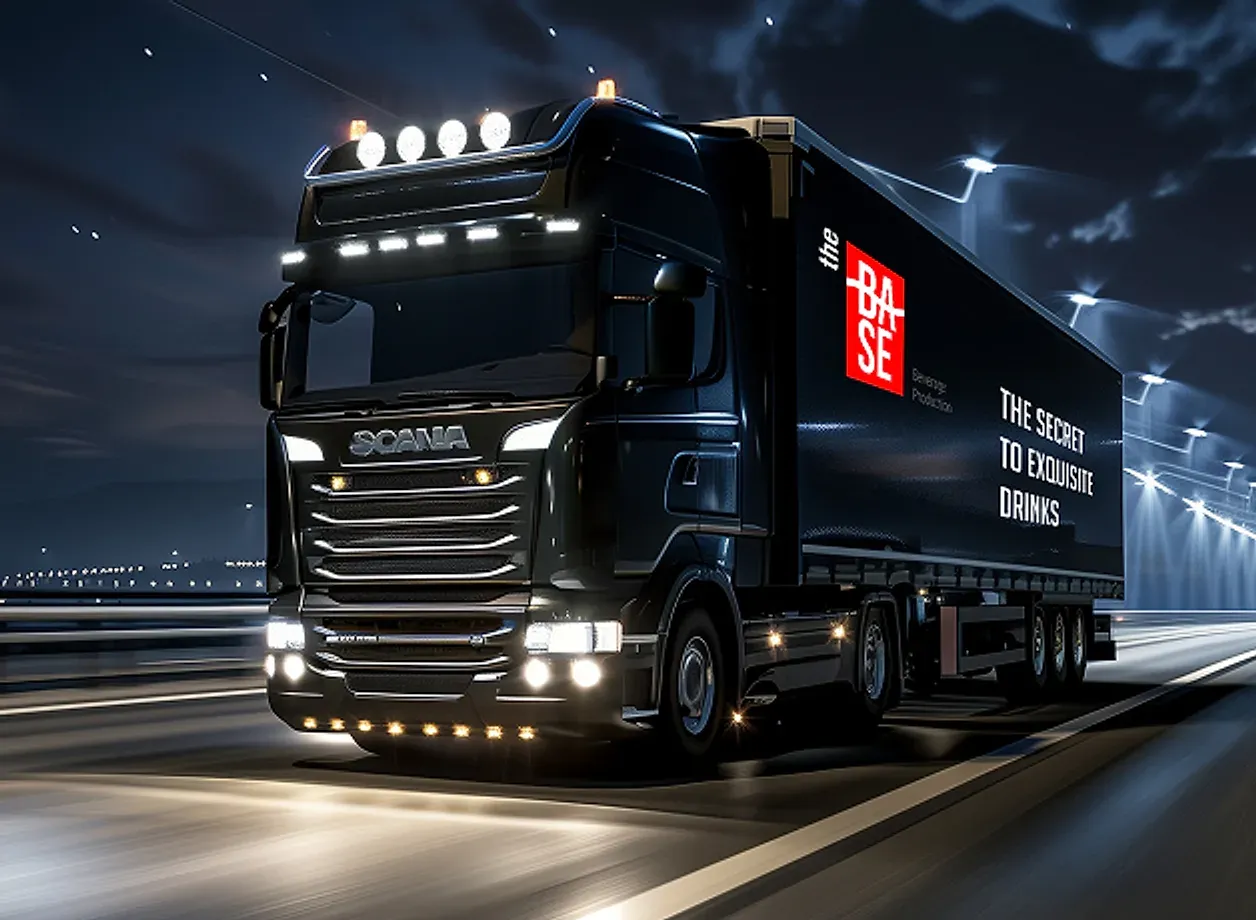
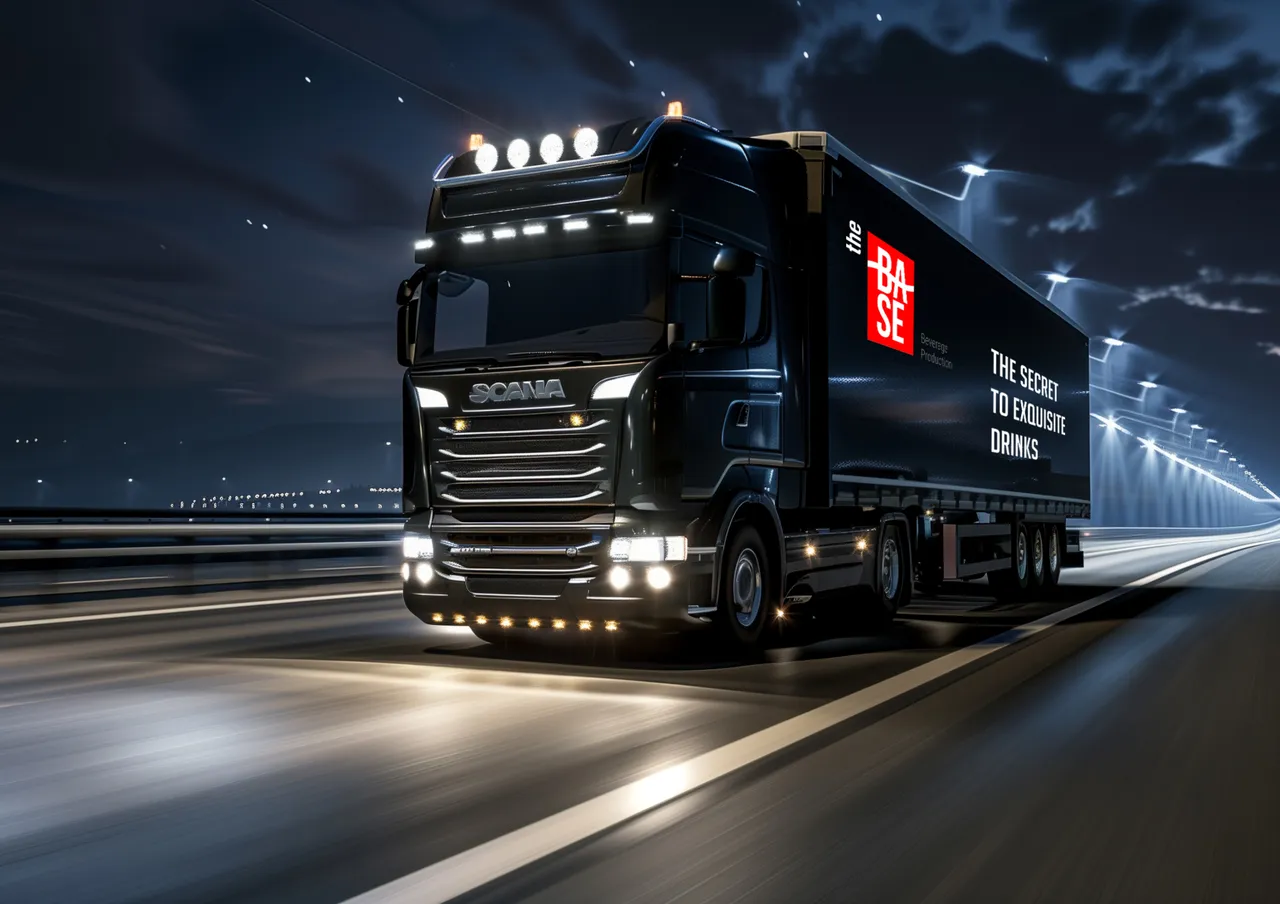
fix(distributors): the hero photo at full resolution
The "SVG" is a wrapper: inside it is the original JPEG at 4096x2894,
which is what the hero was missing. The 628x460 version it replaces was
being stretched 2.3x on a 1440 screen, and the lettering on the trailer
showed it.

Two widths off the original rather than one: 1280 at q80 for phones
(67 KB) and 2400 at q76 for desktops (128 KB), chosen by `srcset`. The
photograph is mostly night, so it compresses far below what a hero this
size usually costs. Verified which file each device actually pulls —
phone at 3x takes the 1280, desktop takes the 2400 at both 1x and 2x.

`next/image` is gone from the hero with it. `images.unoptimized` is on,
so it was serving one file at every size anyway, and its inline `inset`
and `height` were the reason the phone band could not be sized.

Checks: typecheck, lint, build, check:assets, smoke:http, smoke:browser.

diff --git a/src/components/distributors/DistributorsPage.tsx b/src/components/distributors/DistributorsPage.tsx
@@ -175,18 +175,27 @@ export function DistributorsPage() {
         what that version does with them.
       */}
       <section className={styles.hero} aria-labelledby="dist-title">
-        {/* The frame is what gets positioned, not the image: `fill` writes its
-            own `inset` and `height` inline, and inline beats a stylesheet — so
-            sizing the image itself was silently ignored and the phone got a
-            close-up of the light bar. */}
+        {/*
+          A plain `img` rather than `next/image`.
+
+          `images.unoptimized` is on, so `next/image` would serve one file at
+          every size anyway — and with `fill` it writes `inset` and `height`
+          inline, which beat the stylesheet and made the phone's band
+          impossible to size. Two widths in a `srcset` do the job it would
+          have done: 1280 for phones, 2400 for desktops, 67 and 128 KB.
+        */}
         <span className={styles.heroFrame} aria-hidden="true">
-          <Image
+          {/* eslint-disable-next-line @next/next/no-img-element */}
+          <img
             className={styles.heroPhoto}
             src="/images/distributors-hero-truck.webp"
-            alt=""
-            fill
+            srcSet="/images/distributors-hero-truck.webp 1280w, /images/distributors-hero-truck-2x.webp 2400w"
             sizes="100vw"
-            priority
+            alt=""
+            width={2400}
+            height={1696}
+            fetchPriority="high"
+            decoding="async"
           />
         </span>
         <span className={styles.heroVeil} aria-hidden="true" />

diff --git a/src/components/distributors/DistributorsPage.module.css b/src/components/distributors/DistributorsPage.module.css
@@ -174,6 +174,8 @@
 }
 
 .heroPhoto {
+  width: 100%;
+  height: 100%;
   object-fit: cover;
   /* The cab sits left of centre and the sky carries the top third; holding the
      frame a little above centre keeps the tractor unit in shot as the hero
